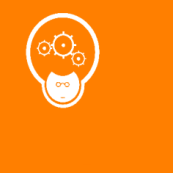
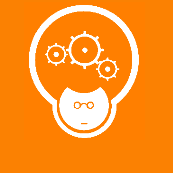
Completed Tile Push Notifications for Phone 7 clients

Changed region(s): [[0.1445, 0.0289, 0.8092, 0.8092]]

diff --git a/Codemash/Server/Codemash.Notification/Manager/Impl/WinPhone7NotificationManager.cs b/Codemash/Server/Codemash.Notification/Manager/Impl/WinPhone7NotificationManager.cs
@@ -15,7 +15,8 @@ namespace Codemash.Notification.Manager.Impl
         /// <param name="notification"></param>
         public void SendNotification(NotificationData notification)
         {
-            var payload = GetPayload(notification.FrontBackgroundImageUrl, notification.BackContent);
+            var payload = GetPayload(notification.FrontBackgroundImageUrl, notification.BackContent,
+                notification.BackBackgroundImageUrl);
             var request = (HttpWebRequest)WebRequest.Create(notification.ChannelUri);
             request.Method = WebRequestMethods.Http.Post;
             request.ContentLength = payload.Length;
@@ -40,7 +41,7 @@ namespace Codemash.Notification.Manager.Impl
         /// Return the Payload that will be sent as part of the push notification
         /// </summary>
         /// <returns></returns>
-        public byte[] GetPayload(string backImageUrl, string backContent)
+        public byte[] GetPayload(string backImageUrl, string backContent, string backBackImageUrl)
         {
             using (MemoryStream memoryStream = new MemoryStream())
             {
@@ -56,6 +57,10 @@ namespace Codemash.Notification.Manager.Impl
 
                     writer.WriteStartElement("wp", "BackContent", "WPNotification");
                     writer.WriteValue(backContent);
+                    writer.WriteEndElement();
+
+                    writer.WriteStartElement("wp", "BackBackgroundImage", "WPNotification");
+                    writer.WriteValue(backBackImageUrl);
                     writer.WriteEndElement();
 
                     writer.WriteEndElement();

diff --git a/Codemash/Phone/Codemash.Phone.Shared/Services/Impl/CustomAppService.cs b/Codemash/Phone/Codemash.Phone.Shared/Services/Impl/CustomAppService.cs
@@ -1,4 +1,5 @@
 using System;
+using System.Collections.ObjectModel;
 using System.Windows;
 using Codemash.Phone.Shared.Common;
 using Microsoft.Phone.Notification;
@@ -63,7 +64,10 @@ namespace Codemash.Phone.Shared.Services.Impl
         void RegistrationService_RegistrationCompleted(object sender, EventArgs e)
         {
             if (!_notificationChannel.IsShellTileBound)
-                _notificationChannel.BindToShellTile();
+                _notificationChannel.BindToShellTile(new Collection<Uri>()
+                                                         {
+                                                             new Uri("http://192.168.1.4", UriKind.RelativeOrAbsolute)
+                                                         });
 
             if (PushChannelInitialized != null)
                 PushChannelInitialized(this, new EventArgs());

diff --git a/Codemash/Server/Codemash.Notification/Helper/Impl/WinPhone7NotificationHelper.cs b/Codemash/Server/Codemash.Notification/Helper/Impl/WinPhone7NotificationHelper.cs
@@ -12,7 +12,16 @@ namespace Codemash.Notification.Helper.Impl
         /// <returns></returns>
         public string GetImageUrlPathForCount(int changesetCount)
         {
-            return string.Format("{0}/Phone7Notification.ashx?count={1}", Config.DeltaApiDomain, changesetCount);
+            return string.Format("{0}/Handlers/Phone7Notification.ashx?count={1}", Config.DeltaApiDomain, changesetCount);
+        }
+
+        /// <summary>
+        /// Returns the image used as the background for the back of the tile
+        /// </summary>
+        /// <returns></returns>
+        public string GetBackImageUrlPath()
+        {
+            return string.Format("{0}/Handlers/Images/wp7/phone7_back.png", Config.DeltaApiDomain);
         }
 
         #endregion

diff --git a/Codemash/Server/Codemash.Notification/Helper/INotificationHelper.cs b/Codemash/Server/Codemash.Notification/Helper/INotificationHelper.cs
@@ -8,10 +8,16 @@ namespace Codemash.Notification.Helper
     public interface INotificationHelper
     {
         /// <summary>
-        /// Get the ImageURL for the changeset count provided
+        /// Get the ImageURL for the changeset count provided (tile front background)
         /// </summary>
         /// <param name="changesetCount"></param>
         /// <returns></returns>
         string GetImageUrlPathForCount(int changesetCount);
+
+        /// <summary>
+        /// Returns the image used as the background for the back of the tile
+        /// </summary>
+        /// <returns></returns>
+        string GetBackImageUrlPath();
     }
 }

diff --git a/Codemash/Codemash.DeltaApi/Handlers/Phone7Notification.ashx.cs b/Codemash/Codemash.DeltaApi/Handlers/Phone7Notification.ashx.cs
@@ -1,9 +1,5 @@
-using System;
-using System.Collections.Generic;
-using System.Drawing;
-using System.Drawing.Imaging;
+using System.Drawing;
 using System.IO;
-using System.Linq;
 using System.Web;
 using Codemash.Server.Core.Extensions;
 
@@ -27,6 +23,10 @@ namespace Codemash.DeltaApi.Handlers
                 {
                     CreateNotificationTile(basePath, count);
                 }
+
+                context.Response.ContentType = "image/png";
+                context.Response.WriteFile(Path.Combine(basePath, GetFilename(count)));
+                context.Response.Flush();
             }
         }
 

diff --git a/Codemash/Phone/Codemash.Phone.Shared/Services/Impl/CustomNotificationRegistrationService.cs b/Codemash/Phone/Codemash.Phone.Shared/Services/Impl/CustomNotificationRegistrationService.cs
@@ -18,7 +18,7 @@ namespace Codemash.Phone.Shared.Services.Impl
         /// <param name="clientTypeName"></param>
         public void Register(string channelUri, string clientTypeName)
         {
-            var client = new RestClient("http://192.168.1.101/DeltaApi/api/");
+            var client = new RestClient("http://192.168.1.4/DeltaApi/api/");
             var request = new RestRequest("Notification", Method.POST);
             request.AddParameter("ChannelUri", channelUri);
             request.AddParameter("ClientType", clientTypeName);

diff --git a/Codemash/Server/Codemash.Notification/Factory/Impl/NotificationFactory.cs b/Codemash/Server/Codemash.Notification/Factory/Impl/NotificationFactory.cs
@@ -1,4 +1,4 @@
-using Codemash.Api.Data;
+
 using Ninject;
 
 namespace Codemash.Notification.Factory.Impl
@@ -19,6 +19,7 @@ namespace Codemash.Notification.Factory.Impl
 
             var helper = NotificationHelperResolver.Resolve(clientType);
             notificationData.FrontBackgroundImageUrl = helper.GetImageUrlPathForCount(missingChangesetCount);
+            notificationData.BackBackgroundImageUrl = helper.GetBackImageUrlPath();
 
             // return our notification data
             return notificationData;

diff --git a/Codemash/Codemash.Poller/PollerWorkerRole.cs b/Codemash/Codemash.Poller/PollerWorkerRole.cs
@@ -24,8 +24,8 @@ namespace Codemash.Poller
 
         public override void Run()
         {
-            while (true)
-            {
+            //while (true)
+            //{
                 try
                 {
                     Logger.Current.LogInformation("Process Start");
@@ -42,7 +42,7 @@ namespace Codemash.Poller
                 {
                     Logger.Current.LogException(ex);
                 }
-            }
+            //}
         }
 
         public override bool OnStart()

diff --git a/Codemash/Phone/Codemash.Phone.Data/Repository/Impl/JsonSessionRepository.cs b/Codemash/Phone/Codemash.Phone.Data/Repository/Impl/JsonSessionRepository.cs
@@ -14,7 +14,7 @@ namespace Codemash.Phone.Data.Repository.Impl
 
         protected override string DownloadUrl
         {
-            get { return "http://192.168.1.101/DeltaApi/api/Session"; }
+            get { return "http://192.168.1.4/DeltaApi/api/Session"; }
         }
 
         protected override Session CreateObject(JToken jToken)

diff --git a/Codemash/Phone/Codemash.Phone.Data/Repository/Impl/JsonSpeakerRepository.cs b/Codemash/Phone/Codemash.Phone.Data/Repository/Impl/JsonSpeakerRepository.cs
@@ -12,7 +12,7 @@ namespace Codemash.Phone.Data.Repository.Impl
 
         protected override string DownloadUrl
         {
-            get { return "http://192.168.1.101/DeltaApi/api/Speaker"; }
+            get { return "http://192.168.1.4/DeltaApi/api/Speaker"; }
         }
 
         protected override Speaker CreateObject(JToken jToken)

diff --git a/Codemash/Server/Codemash.Notification/NotificationData.cs b/Codemash/Server/Codemash.Notification/NotificationData.cs
@@ -9,6 +9,7 @@ namespace Codemash.Notification
     {
         public string BackContent { get; internal set; }
         public string FrontBackgroundImageUrl { get; internal set; }
+        public string BackBackgroundImageUrl { get; internal set; }
 
         public string ChannelUri { get; internal set; }
     }

diff --git a/Codemash/Server/Codemash.Notification/Manager/Impl/NotificationManagerResolver.cs b/Codemash/Server/Codemash.Notification/Manager/Impl/NotificationManagerResolver.cs
@@ -9,7 +9,7 @@ namespace Codemash.Notification.Manager.Impl
 
         public NotificationManagerResolver(IKernel container)
         {
-            container = _container;
+            _container = container;
         }
 
         #region Implementation of IResolver<INotificationManager>
